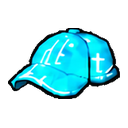
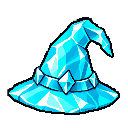
Redesign crystal wizard hat and swap moon/crystal IDs with schema 3 migration

diff --git a/src/main.tsx b/src/main.tsx
@@ -92,7 +92,7 @@ function App(){
  <button className="talk-button" disabled={blocked} onClick={()=>emit('lab-talk')}><span>···</span>대화</button>
  {(toast||storageError)&&<div className="toast" role="status">{toast||(storageError?'클라우드 동기화가 지연되고 있습니다. 기록은 이 브라우저에도 보관됩니다.':'')}</div>}
  {!save&&!approvedStudentId&&<Modal label="수강생 확인"><StudentGate onAllowed={setApprovedStudentId}/></Modal>}
- {((!save&&!!approvedStudentId)||editing)&&<Modal wide label="캐릭터 제작" onClose={save?.studentId?()=>setEditing(false):undefined}><Creator level={levelLabel(doping,type)} experience={scientific(doping)} initial={save?.character} name={save?.name??''} studentId={save?.studentId??approvedStudentId} studentIdLocked completed={completed} purchased={ownedIds} onClose={save?.studentId?()=>setEditing(false):undefined} onSave={(name,c,studentId)=>{setSave(s=>({...s,version:3,item_schema:2,puzzle_completed:s?.puzzle_completed??[],name,studentId,character:availableCharacter(c,s?.completed??[],inventoryIds({...s,name,studentId})),completed:s?.completed??[],readBooks:s?.readBooks??[],doping:s?.doping??MIN_DOPING,type:s?.type??'n',coins:s?.coins??0,purchased:s?.purchased??[],area:s?.area??'village'}));setEditing(false);}}/></Modal>}
+ {((!save&&!!approvedStudentId)||editing)&&<Modal wide label="캐릭터 제작" onClose={save?.studentId?()=>setEditing(false):undefined}><Creator level={levelLabel(doping,type)} experience={scientific(doping)} initial={save?.character} name={save?.name??''} studentId={save?.studentId??approvedStudentId} studentIdLocked completed={completed} purchased={ownedIds} onClose={save?.studentId?()=>setEditing(false):undefined} onSave={(name,c,studentId)=>{setSave(s=>({...s,version:3,item_schema:3,puzzle_completed:s?.puzzle_completed??[],name,studentId,character:availableCharacter(c,s?.completed??[],inventoryIds({...s,name,studentId})),completed:s?.completed??[],readBooks:s?.readBooks??[],doping:s?.doping??MIN_DOPING,type:s?.type??'n',coins:s?.coins??0,purchased:s?.purchased??[],area:s?.area??'village'}));setEditing(false);}}/></Modal>}
  {save?.studentId&&!editing&&!cloudReady&&<Modal label="클라우드 저장 연결"><CloudAccess save={save} onConnected={connected}/></Modal>}
  {relockIndex!==null&&<Modal label="스테이지 재잠금" onClose={()=>setRelockIndex(null)}><div className="dialog-heading"><div><small>ROOT CONTROL</small><h2>관문을 다시 잠글까요?</h2></div><button onClick={()=>setRelockIndex(null)}>닫기 ×</button></div><p><strong>{stageDefinitions[relockIndex].title}</strong>에 새로 입장하는 학생부터 차단됩니다.</p><p>완료 기록, 보상, 경험치와 아이템은 유지되며 현재 스테이지 안에 있는 학생은 나갈 때까지 계속 진행할 수 있습니다.</p><div className="confirm-actions"><button onClick={()=>setRelockIndex(null)}>취소</button><button className="danger" onClick={()=>{const index=relockIndex;setRelockIndex(null);void changeStage(index,false);}}>확인 · 다시 잠그기</button></div></Modal>}
  {panel&&<Modal wide={['map','quests','cave','fet-game'].includes(panel)} label={panel} onClose={()=>setPanel(null)}><div className="dialog-heading"><div><small>SEMI ADVENTURE</small><h2>{{map:'전체 모험 지도',quests:'모험 기록',samples:'도핑 가방',guide:'탐험 안내',inventory:'인벤토리',shop:'도너 상점',cave:'실리콘 결정 동굴',silicon:'길잡이 Dr. 실리콘',library:'실리콘의 용어 사전',faq:'실리콘의 FAQ',practice:'Stage 복습',loot:'장비 획득',book:'낡은 책','fet-game':'FET 정글 · MOSFET 공정 퍼즐'}[panel]}</h2></div><button onClick={()=>setPanel(null)}>닫기 ×</button></div>

diff --git a/src/catalog-wear.ts b/src/catalog-wear.ts
@@ -22,7 +22,7 @@ async function icon(id:string):Promise<Art>{
   const xs=largest.map(p=>p%c.width),ys=largest.map(p=>Math.floor(p/c.width));
   const x=Math.min(...xs),y=Math.min(...ys),w=Math.max(...xs)-x+1,h=Math.max(...ys)-y+1;
   const out=canvas(w,h),oc=out.getContext('2d')!;oc.drawImage(c,x,y,w,h,0,0,w,h);if(item.id==='C01'){const p=oc.getImageData(0,0,w,h);for(let i=0;i<p.data.length;i+=4){const value=Math.max(p.data[i],p.data[i+1],p.data[i+2]);p.data[i]=p.data[i+1]=p.data[i+2]=value;}oc.putImageData(p,0,0);}resolve(out);
- };im.src='./item-icons/'+item.assetCode+'.png';});cache.set(item.id,promise);promise.catch(()=>cache.delete(item.id));return promise;
+ };im.src='./item-icons/'+item.assetCode+'.png?v=3';});cache.set(item.id,promise);promise.catch(()=>cache.delete(item.id));return promise;
 }
 export async function loadGear(c:Character):Promise<Gear>{const result:Gear={};await Promise.all((['outfit','shoes','hat','weapon','accessory'] as const).map(async s=>{if(catalogItem(c[s]))result[s]=await icon(c[s]);}));return result;}
 function draw(ctx:CanvasRenderingContext2D,im:Art,x:number,y:number,w:number,h:number,mirror=false){ctx.save();ctx.imageSmoothingEnabled=false;if(mirror){ctx.translate(x+w,y);ctx.scale(-1,1);ctx.drawImage(im,0,0,w,h);}else ctx.drawImage(im,x,y,w,h);ctx.restore();}
@@ -54,7 +54,7 @@ export function paintCatalogLayer(ctx:CanvasRenderingContext2D,path:string,c:Cha
  }
  if(path.startsWith('hat/cloth/')&&g.hat){
   ctx.clearRect(0,0,576,256);
-  for(let r=0;r<4;r++)for(let f=0;f<9;f++){const side=r===1||r===3,id=catalogItem(c.hat)!.id,high=['H07','H08','H10'].includes(id),hood=id==='H09';const w=hood?29:side?26:30,h=hood?29:high?27:18;
+  for(let r=0;r<4;r++)for(let f=0;f<9;f++){const side=r===1||r===3,id=catalogItem(c.hat)!.id,high=['H06','H07','H08','H10'].includes(id),hood=id==='H09';const w=hood?29:side?26:30,h=hood?29:high?27:18;
    draw(ctx,hood&&r!==0?openHood(g.hat):g.hat,f*64+32-w/2,r*64+(hood?12:high?0:9)+bob(r,f),w,h,r===3);
   }
  }
@@ -113,10 +113,10 @@ export function paintCatalogEquipment(ctx:CanvasRenderingContext2D,c:Character,g
   }
   if(g.hat){
    if(animal){
-   if(g.hat){const id=catalogItem(c.hat)!.id,high=['H07','H08','H10'].includes(id),hood=id==='H09';const w=hood?24:23,h=hood?24:high?23:14;const y=(dog?(r===0?12:r===2?22:18):(r===0?17:r===2?(hood?27:22):(hood?23:18)))+b;
+   if(g.hat){const id=catalogItem(c.hat)!.id,high=['H06','H07','H08','H10'].includes(id),hood=id==='H09';const w=hood?24:23,h=hood?24:high?23:14;const y=(dog?(r===0?12:r===2?22:18):(r===0?17:r===2?(hood?27:22):(hood?23:18)))+b;
     draw(ctx,hood&&r!==0?openHood(g.hat):g.hat,headX-w/2,y-(high?9:0),w,h,r===3);
    }
-   }else{const id=catalogItem(c.hat)!.id,high=['H07','H08','H10'].includes(id),hood=id==='H09',w=hood?29:side?26:30,h=hood?29:high?27:18;
+   }else{const id=catalogItem(c.hat)!.id,high=['H06','H07','H08','H10'].includes(id),hood=id==='H09',w=hood?29:side?26:30,h=hood?29:high?27:18;
     draw(ctx,hood&&r!==0?openHood(g.hat):g.hat,32-w/2,(hood?12:high?0:9)+b,w,h,r===3);
    }
   }

diff --git a/src/save.ts b/src/save.ts
@@ -15,7 +15,7 @@ export function restore():Save|null{
   const completed=[...new Set<number>(s.completed.filter((n:unknown)=>Number.isInteger(n)&&Number(n)>=0&&Number(n)<15))];
   const purchased=Array.isArray(s.purchased)?s.purchased.map((i:unknown)=>migrateItemId(String(i))).filter((i:unknown)=>catalog.some(item=>item.id===migrateItemId(String(i)))):[];
   const oldDose=[2e13,3e13,4e13].reduce((n,d,i)=>n+(completed.includes(i)?d:0),MIN_DOPING);
-  const result:Save={version:3,item_schema:2,puzzle_completed:s.puzzle_completed??[],name:s.name,studentId:validStudentId(s.name,s.studentId)?s.studentId:'',character:availableCharacter(validCharacter(s.character),completed,inventoryIds({...s,purchased})),completed,purchased,quantities:Object.fromEntries(catalog.filter(i=>['T03','T04','T05'].includes(i.id)).map(i=>[i.id,Number.isInteger(s.quantities?.[i.id])?Math.max(0,Math.min(9999,s.quantities[i.id])):0])),readBooks:Array.isArray(s.readBooks)?[...new Set<number>(s.readBooks.filter((n:unknown)=>Number.isInteger(n)&&Number(n)>=0&&Number(n)<12))]:[],doping:clampDoping(s.version===3?s.doping:oldDose),type:s.type==='p'?'p':'n',coins:Number.isFinite(s.coins)?Math.max(0,Math.floor(s.coins)):completed.length*20,area:'village'};
+  const result:Save={version:3,item_schema:3,puzzle_completed:s.puzzle_completed??[],name:s.name,studentId:validStudentId(s.name,s.studentId)?s.studentId:'',character:availableCharacter(validCharacter(s.character),completed,inventoryIds({...s,purchased})),completed,purchased,quantities:Object.fromEntries(catalog.filter(i=>['T03','T04','T05'].includes(i.id)).map(i=>[i.id,Number.isInteger(s.quantities?.[i.id])?Math.max(0,Math.min(9999,s.quantities[i.id])):0])),readBooks:Array.isArray(s.readBooks)?[...new Set<number>(s.readBooks.filter((n:unknown)=>Number.isInteger(n)&&Number(n)>=0&&Number(n)<12))]:[],doping:clampDoping(s.version===3?s.doping:oldDose),type:s.type==='p'?'p':'n',coins:Number.isFinite(s.coins)?Math.max(0,Math.floor(s.coins)):completed.length*20,area:'village'};
   if(result.character.gender==='neutral'&&result.character.species==='dog')result.character.hairColor='#dae0e5';return result;
  }catch{return null;}
 }

diff --git a/src/ItemIcon.tsx b/src/ItemIcon.tsx
@@ -2,5 +2,5 @@ import {catalogItem} from './catalog.mjs';
 // Separate RGBA assets contain only artwork; codes and labels stay in the UI.
 export function ItemIcon({id}:{id:string}){
  const item=catalogItem(id);if(!item)return <span className="catalog-icon empty-equipment">—</span>;
- return <span className="catalog-icon" aria-hidden="true"><img src={`./item-icons/${item.assetCode}.png`} alt="" style={{width:'100%',height:'100%',objectFit:'contain',filter:item.id==='C01'?'grayscale(1) brightness(1.08)':undefined}}/></span>;
+ return <span className="catalog-icon" aria-hidden="true"><img src={`./item-icons/${item.assetCode}.png?v=3`} alt="" style={{width:'100%',height:'100%',objectFit:'contain',filter:item.id==='C01'?'grayscale(1) brightness(1.08)':undefined}}/></span>;
 }

diff --git a/docs/crystal-hat-design.md b/docs/crystal-hat-design.md
@@ -1,0 +1,11 @@
+# Crystal wizard hat
+
+Final game asset: `public/item-icons/H06.png` (128×128 RGBA). This is a stable artwork filename; the catalogue ID is now **H07**. Moon hat is H06. Both prices remain 120 coins.
+
+Created with the built-in image generation tool, using the original crystal cap and process wizard hat as references. The final transparent image was resized with nearest-neighbor sampling for the game. The same asset is used by the catalogue and character renderer.
+
+Design prompt: Redesign the cyan crystal cap into a tall pointed, slightly bent wizard hat with a broad elliptical brim, matching the process wizard hat silhouette. Preserve icy cyan/turquoise crystal identity, faceted surfaces, white-blue highlights and small angular crystal ornaments. Match compact pixel RPG item style, dark outlines and simple readable shading. One centered hat, no head, text, frame, shadow or background; transparent PNG.
+
+Final extraction prompt: Preserve the exact cyan crystal wizard hat design, outline and pixel art. Remove the gray-white checkerboard pixels and output genuine transparent RGBA. Hat only, isolated, no shadow, square game icon ready to downsample.
+
+Save schema 3 swaps H06/H07 after applying any schema 1→2 migrations. Old servers remain compatible through versioned schema 1 transport. To update Google Sheets, replace Code.gs, update the existing web-app deployment, and run migrateItemCatalog once (safe to repeat).
